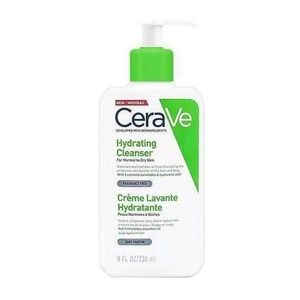
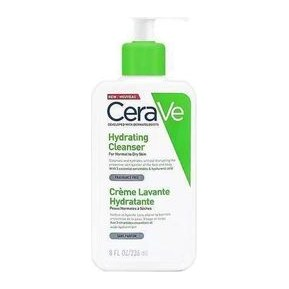
Add CeraVe Foaming Facial Cleanser photo, price and details
- Catalog gains an optional Details column shown under the product name
- tools/prepare_photo.py trims white borders so photos display at a
  consistent size; both CeraVe photos reprocessed with it

Claude-Session: https://claude.ai/code/session_01GC4fUETwCyyD8veJyUGcRJ

diff --git a/script.js b/script.js
@@ -158,6 +158,7 @@ function renderProducts() {
       </div>
       <span class="product-cat">${escapeHtml(p.brand)} · ${escapeHtml(p.type)}</span>
       <h3>${escapeHtml(p.name)}</h3>
+      ${p.details ? `<p class="product-desc">${escapeHtml(p.details)}</p>` : ""}
       <p class="product-price">${money(p.price)}</p>
     </article>`).join("") : `<p class="no-results">No products match “${escapeHtml(shop.q)}”. Try another brand or product name.</p>`;
   $("#result-count").textContent = `${all.length} product${all.length === 1 ? "" : "s"}`;

diff --git a/products.js b/products.js
@@ -24,14 +24,16 @@ const PRODUCTS = [
   "category": "skincare",
   "type": "Cleansers",
   "tier": "Basic",
-  "price": 26000,
+  "price": 20000,
   "priceRange": [
    20000,
    32000
   ],
   "shape": "pump",
   "bg": "#e6d6be",
-  "color": "#d8b98c"
+  "color": "#d8b98c",
+  "image": "images/cerave-foaming-facial-cleanser.jpg",
+  "details": "For normal to oily skin · 12 fl oz (355 ml)"
  },
  {
   "id": "cetaphil-gentle-skin-cleanser",

diff --git a/tools/prepare_photo.py b/tools/prepare_photo.py
@@ -1,0 +1,44 @@
+#!/usr/bin/env python3
+"""Tidy a product photo so every product appears the same size in the shop.
+
+Usage:  python3 tools/prepare_photo.py <photo> images/<product-id>.jpg
+
+Trims the white border around the product, centres it on a white square
+with a small margin, and saves a JPEG. Needs Pillow (pip install pillow).
+"""
+import sys
+from PIL import Image, ImageChops
+
+MARGIN = 0.06  # space around the product, as a share of the square
+MAX_SIZE = 1000
+
+
+def prepare(src, dest):
+    im = Image.open(src)
+    if im.mode in ("RGBA", "LA", "P"):
+        im = im.convert("RGBA")
+        white = Image.new("RGB", im.size, "white")
+        white.paste(im, mask=im.split()[-1])
+        im = white
+    else:
+        im = im.convert("RGB")
+
+    # Anything clearly darker than near-white counts as the product.
+    diff = ImageChops.difference(im, Image.new("RGB", im.size, "white")).convert("L")
+    box = diff.point(lambda v: 255 if v > 18 else 0).getbbox()
+    if box:
+        im = im.crop(box)
+
+    side = int(max(im.size) / (1 - 2 * MARGIN))
+    square = Image.new("RGB", (side, side), "white")
+    square.paste(im, ((side - im.width) // 2, (side - im.height) // 2))
+    if side > MAX_SIZE:
+        square = square.resize((MAX_SIZE, MAX_SIZE), Image.LANCZOS)
+    square.save(dest, quality=88, optimize=True)
+    print(f"Saved {dest} ({square.width}×{square.height})")
+
+
+if __name__ == "__main__":
+    if len(sys.argv) != 3:
+        sys.exit(__doc__)
+    prepare(sys.argv[1], sys.argv[2])

diff --git a/tools/build_products.py b/tools/build_products.py
@@ -3,6 +3,8 @@
 
 Usage:  python3 tools/build_products.py
 
+Details: an optional "Details" column (skin type, size…) shows under the name.
+
 Photos: add an "Image" column with a direct image link or a file path such as
 images/cerave-cleanser.jpg. Products without one show a drawn bottle.
 
@@ -93,6 +95,7 @@ def main():
             "price": price, "priceRange": [low, high],
             "shape": shape, "bg": bg, "color": color,
             **({"image": image} if image else {}),
+            **({"details": row["Details"].strip()} if (row.get("Details") or "").strip() else {}),
         })
 
     OUT.write_text(

diff --git a/README.md b/README.md
@@ -36,6 +36,7 @@ python3 tools/build_products.py
 ```
 
 - The shop price is the **middle of the "Typical Nigeria price range"**, rounded to the nearest ₦500.
+- An optional **`Details`** column (skin type, size…) shows under the product name.
 - To set your own exact price, add a **`Price`** column to the CSV (e.g. `25000`); it overrides the range.
 - Categories map to the shop like this: Cleanser / Moisturiser / Sunscreen / Serum / Exfoliant → **Skincare**; Perfume / Body mist / Perfume oil → **Perfumes**; Body care → **Body Care**.
 
@@ -45,6 +46,12 @@ Add an **`Image`** column to `data/catalog.csv` and fill it in for each product 
 
 - a **direct link to the photo** (it ends in `.jpg`, `.png` or `.webp`; on a web page, right-click the photo → *Copy image address*), or
 - a **photo file** you put in the `images/` folder, e.g. `images/cerave-hydrating-cleanser.jpg`
+
+To tidy a photo first (trims the white border so every product appears the same size):
+
+```bash
+python3 tools/prepare_photo.py my-photo.png images/cerave-foaming-facial-cleanser.jpg
+```
 
 Then run `python3 tools/build_products.py`. Photos on a white background look best. Products without a photo keep the drawn bottle, and so does any photo that fails to load. Google search links are ignored because they open a page of results, not a single photo.
 
